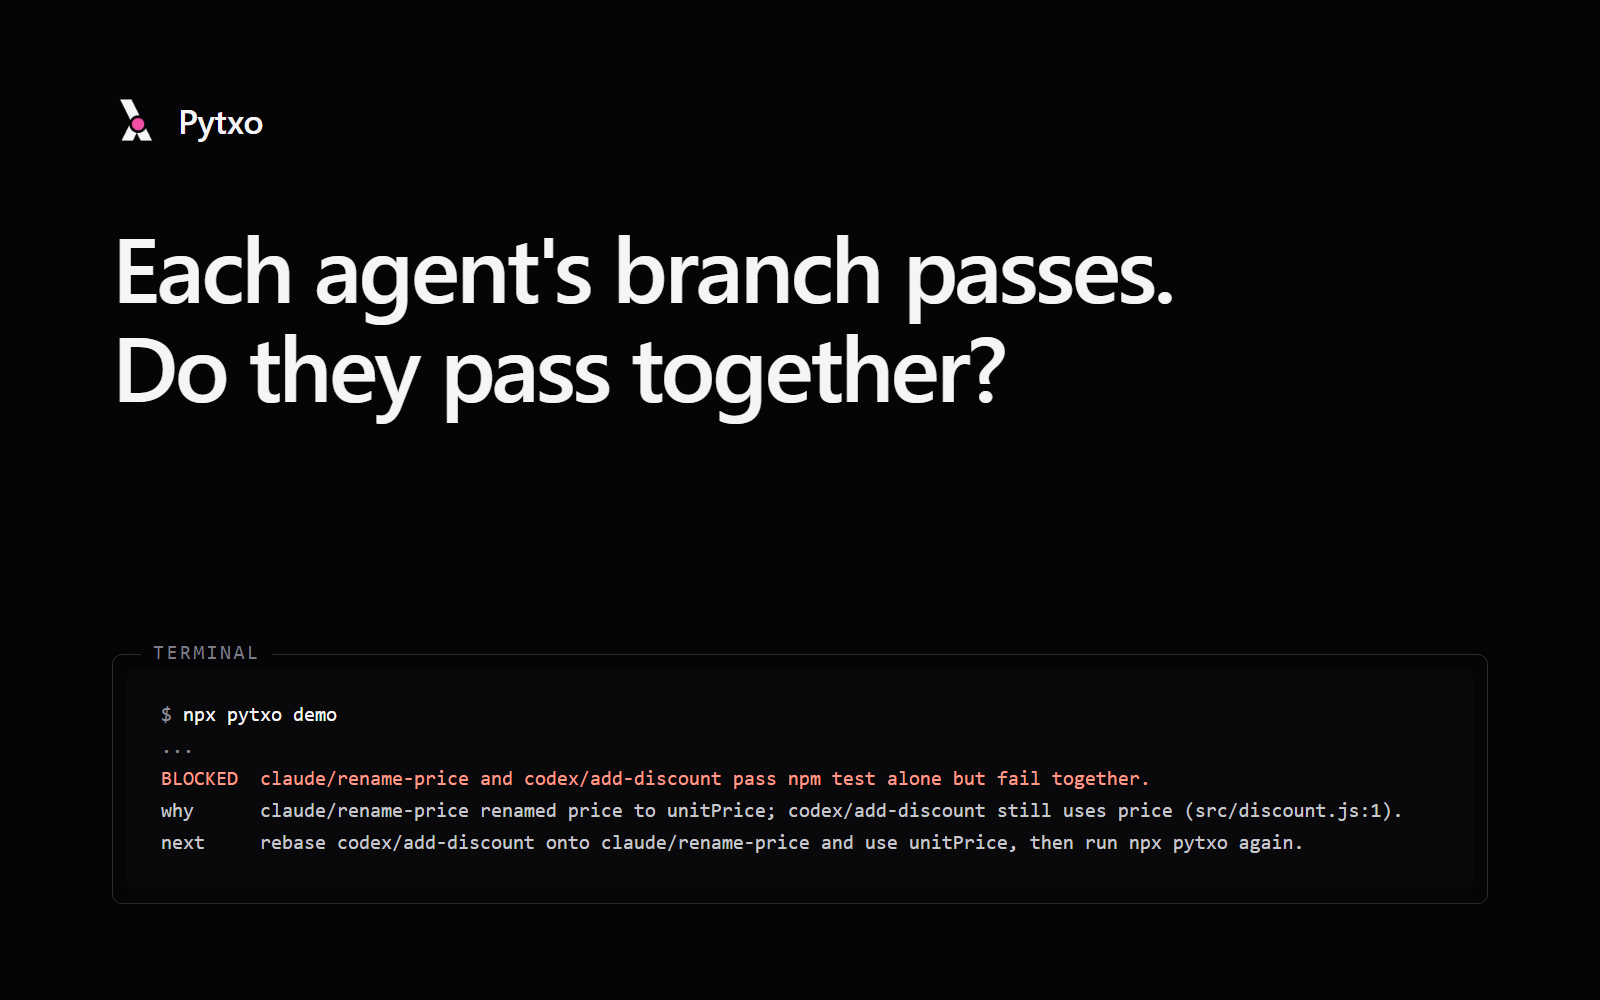
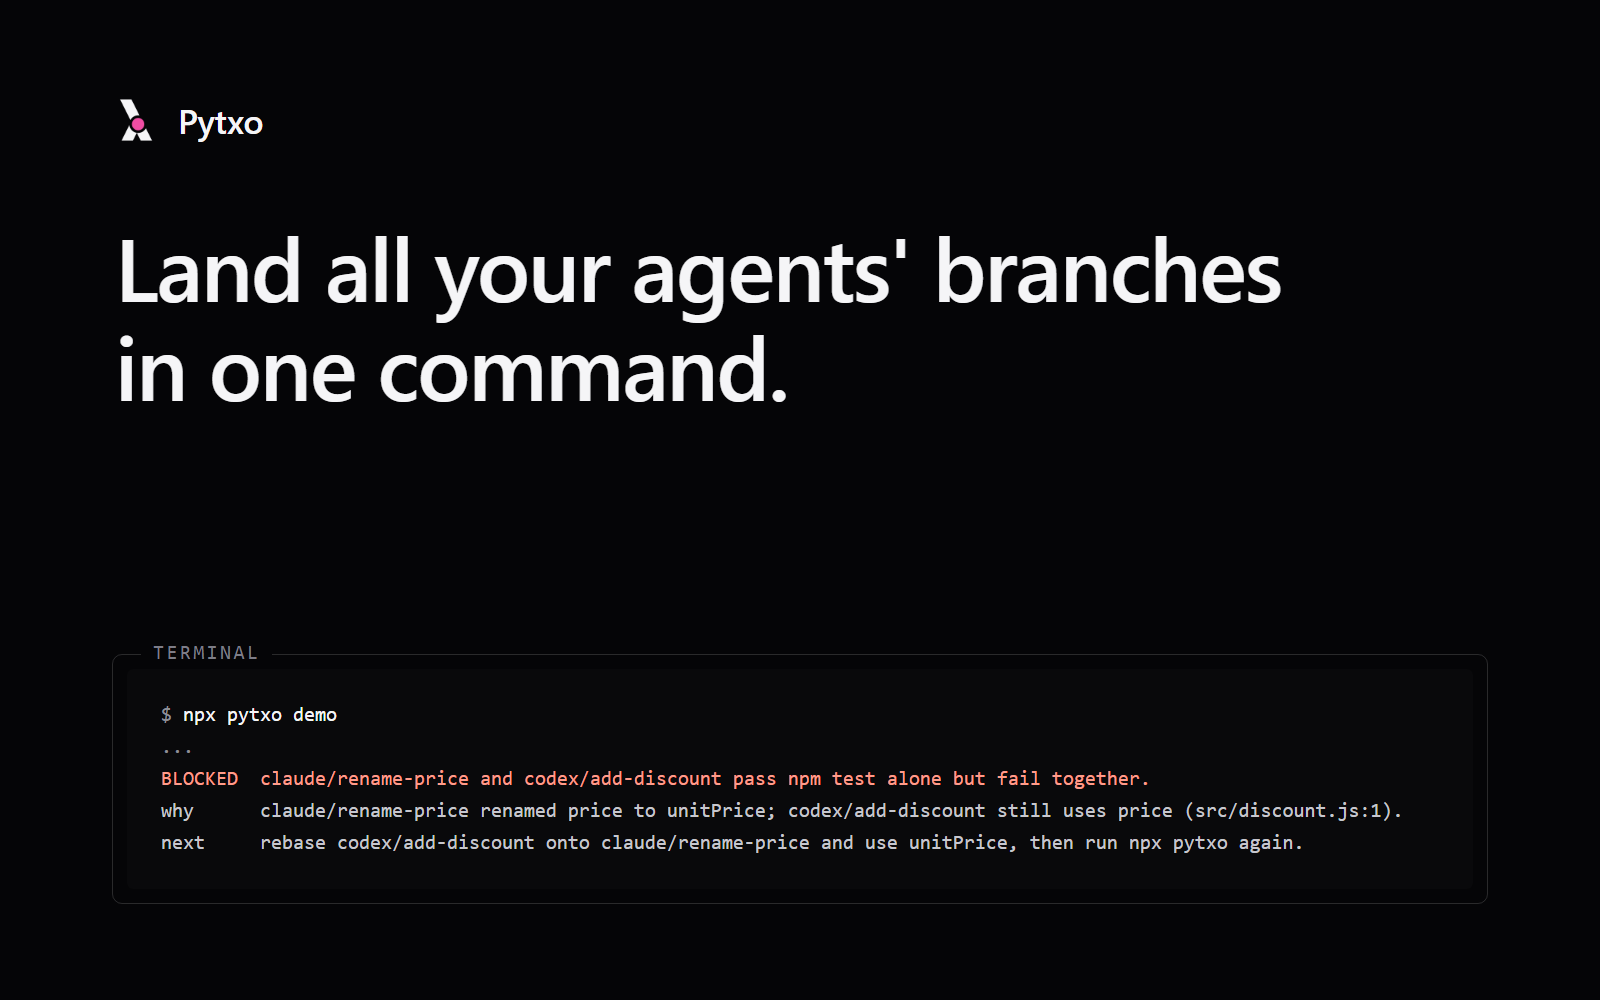
copy: lead with landing the agents' branches, not the rare break
The hero, README, npm and mirror READMEs, docs intro, page titles,
release notes, POSITIONING.md and the share card now say "Land all your
agents' branches in one command." and that nothing lands when two
branches break each other. On Pytxo's own work 0 of 21 sibling branch
pairs failed only together (2026-10-31), so the routine job leads and
the rare failure becomes the guarantee. The hero keeps four lines and
the copy button above the fold from 320x700 to 1920x1080. The terminal
row shows npx pytxo --apply; the Action's description says what it
does in CI. POSITIONING adds asking the agent to merge as what people
do today, no model calls as a reason, and all-or-nothing landing as a
limit. The CLI's help text and Cargo description are unchanged.

Changed region(s): [[0.0625, 0.217, 0.8125, 0.434]]

diff --git a/apps/web/e2e/marketing.spec.ts b/apps/web/e2e/marketing.spec.ts
@@ -26,8 +26,8 @@ for (const width of [1440, 390]) {
     await page.emulateMedia({ reducedMotion: "reduce" });
     await page.goto("/");
     const hero = page.getByTestId("marketing-hero");
-    await expect(hero.getByRole("heading", { level: 1 })).toHaveText("Each agent's branch passes. Do they pass together?");
-    await expect(hero.getByText(/runs your tests on the combined result, and blocks the merge if it breaks/)).toBeVisible();
+    await expect(hero.getByRole("heading", { level: 1 })).toHaveText("Land all your agents' branches in one command.");
+    await expect(hero.getByText(/runs your tests and lands them only if they pass/)).toBeVisible();
     await expect(hero.getByRole("button", { name: "Copy npx pytxo demo" })).toBeInViewport({ ratio: 1 });
     await expect(hero.getByRole("link", { name: "Source on GitHub" })).toHaveAttribute("href", "https://github.com/Pytxo-dev/pytxo");
     // The demo shows the recorded bytes of a real run, not a retyped or illustrated one.
@@ -56,7 +56,7 @@ for (const width of [1440, 390]) {
     }
     await expect(decide.getByRole("link", { name: /^Pull request comment/ })).toHaveAttribute("href", "/evidence/comment-blocked-2.0.0-2026-10-30.json");
     const where = page.getByTestId("where-section");
-    await expect(where.locator("code")).toHaveText(["npx pytxo", "npx pytxo hook", "uses: Pytxo-dev/pytxo/actions/land@v2"]);
+    await expect(where.locator("code")).toHaveText(["npx pytxo --apply", "npx pytxo hook", "uses: Pytxo-dev/pytxo/actions/land@v2"]);
     for (const [name, href] of [
       ["Claude Code plugin or the Codex hook", "/docs/getting-started/agent-hooks"],
       ["GitHub Action", "/docs/getting-started/land-in-ci"],

diff --git a/apps/web/src/lib/site.ts b/apps/web/src/lib/site.ts
@@ -52,9 +52,9 @@ export type NavLink = {
 };
 
 /** One product sentence, used by metadata, footer and structured data. */
-export const PRODUCT_LINE = "Each agent's branch passes. Do they pass together?";
+export const PRODUCT_LINE = "Land all your agents' branches in one command.";
 export const PRODUCT_SUMMARY =
-  "Pytxo merges your Claude Code, Codex and Copilot branches in a throwaway worktree, runs your tests on the combined result, and blocks the merge if it breaks. Free, open source, runs on your machine or in CI.";
+  "Pytxo merges your Claude Code, Codex and Copilot branches in a throwaway worktree, runs your tests and lands them only if they pass together. Free and open source.";
 
 /** Agents verified live on a released build vs. those still in beta. */
 export const AGENT_SUPPORT = {
@@ -67,7 +67,7 @@ export const SHARE_IMAGE = {
   url: "/social/check-1600x1000.png",
   width: 1600,
   height: 1000,
-  alt: "Each agent's branch passes. Do they pass together? npx pytxo demo prints BLOCKED: two branches pass npm test alone but fail together, because one renamed price to unitPrice and the other still uses price.",
+  alt: "Land all your agents' branches in one command. npx pytxo demo prints BLOCKED: two branches pass npm test alone but fail together, because one renamed price to unitPrice and the other still uses price.",
 };
 
 /** Where a newcomer starts, linked from the plans and the 404 page. */

diff --git a/apps/web/src/components/site/hero.tsx b/apps/web/src/components/site/hero.tsx
@@ -11,12 +11,12 @@ export function Hero() {
       <MarkField />
       <div className={s.wrap}>
         <h1 id="hero-title">
-          <span data-keep="text:0.22">Each agent&apos;s branch passes.</span>{" "}
-          <span data-keep="text:0.22">Do they pass together?</span>
+          <span data-keep="text:0.22">Land all your agents&apos;</span>{" "}
+          <span data-keep="text:0.22">branches in one command.</span>
         </h1>
         <p className={s.pitch} data-keep="text:0.1">
-          Pytxo merges your coding agents&apos; branches in a throwaway worktree, runs your tests on the combined result,
-          and blocks the merge if it breaks.
+          Pytxo merges them in a throwaway worktree, runs your tests and lands them only if they pass. When two break
+          each other, nothing lands.
         </p>
         <div className={s.act}>
           <CopyCommand keep="box:0.1" />

diff --git a/apps/web/src/app/(marketing)/page.tsx b/apps/web/src/app/(marketing)/page.tsx
@@ -11,7 +11,7 @@ import comment from "../../../public/evidence/comment-blocked-2.0.0-2026-10-30.j
 
 export const metadata = pageMetadata(
   "/",
-  "Pytxo: do your agents' branches pass together?",
+  "Pytxo: land your coding agents' branches in one command",
   PRODUCT_SUMMARY,
 );
 
@@ -101,7 +101,7 @@ export default function HomePage() {
         <div className={s.wrap}>
           <h2 id="where-title">Where it runs.</h2>
           <ul className={s.where}>
-            <li><p>In your terminal</p><code>npx pytxo</code></li>
+            <li><p>In your terminal</p><code>npx pytxo --apply</code></li>
             <li>
               <p>When an agent stops, through the <Link href="/docs/getting-started/agent-hooks">Claude Code plugin or the Codex hook</Link></p>
               <code>npx pytxo hook</code>

diff --git a/apps/web/src/app/layout.tsx b/apps/web/src/app/layout.tsx
@@ -9,7 +9,7 @@ import "./globals.css";
 export const metadata: Metadata = {
   metadataBase: new URL("https://pytxo.com"),
   title: {
-    default: "Pytxo: do your agents' branches pass together?",
+    default: "Pytxo: land your coding agents' branches in one command",
     template: "%s · Pytxo",
   },
   description: PRODUCT_SUMMARY,

diff --git a/POSITIONING.md b/POSITIONING.md
@@ -1,8 +1,9 @@
 # Positioning
 
-**Each agent's branch passes. Do they pass together?** Pytxo merges your
-coding agents' branches in a throwaway worktree, runs your tests on the
-combined result, and blocks the merge if it breaks.
+**Land all your agents' branches in one command.** Pytxo merges your coding
+agents' branches in a throwaway worktree, runs your tests on the combined
+result, and lands them only if they pass. If two branches break each other,
+nothing lands and you see why.
 
 This page is the source for the README, the homepage, the npm and Action
 descriptions, and the plugin listings. When they disagree, fix them to match
@@ -24,6 +25,9 @@ without tests (Pytxo catches only what the tests catch).
   still break main the moment both are merged.
 - **Merge by hand.** Merge one branch, rebase the next, run the tests again,
   and find the break after the first branch has already landed.
+- **Ask the agent to merge.** Claude Code or Codex can merge the branches and
+  run the tests, but that spends the same usage limits as the work, and it may
+  merge differently each time.
 - **Use a merge queue** (GitHub's merge queue, Mergify, Graphite). These do
   test combined changes, but at merge time: after review, with branch
   protection set up first, inside one hosting provider. A break found there
@@ -33,6 +37,14 @@ without tests (Pytxo catches only what the tests catch).
 
 ## Why Pytxo
 
+- **One command for the routine job.** Merging three to five agent branches
+  by hand means merge, rebase, run the tests, repeat. `npx pytxo --apply` does
+  it in one step and moves the target only when the tests pass on the combined
+  result, by compare-and-swap, so it refuses if the target moved meanwhile.
+  Every run does that work, not only the rare run where branches break each
+  other.
+- **No model, no quota.** The check never calls a model, so it spends none of
+  your agents' usage limits.
 - **Your real tests on the combined result.** Not a diff heuristic and not a
   model's opinion: `npm test`, `pytest`, `cargo test`, `go test ./...` or
   whatever the repository uses, run on the merge of all the branches.
@@ -51,11 +63,14 @@ without tests (Pytxo catches only what the tests catch).
   pair fails and the others pass, in CI only the pull requests of the
   branches behind the failure fail. After a combined run times out, the
   branches do not run alone.
-- **Nothing in the repository changes.** The merge happens in a throwaway
-  worktree.
+- **Nothing changes until it passes.** The merge happens in a throwaway
+  worktree. Without `--apply` nothing in the repository changes; with it, only
+  the target branch moves.
 
 ## Honest limits
 
+- Landing is all or nothing: when the combination fails, nothing lands, even
+  the branches that pass on their own.
 - It catches what your tests catch. A break your tests don't cover still lands.
 - Merge conflicts are reported and blocked, not resolved.
 - Nobody has measured how often agents' branches fail only when combined. The
@@ -94,11 +109,14 @@ Pro is not switched on yet: until it is, the Action runs free everywhere.
 
 ## Words
 
-Use: check, together, combined, agent branches, throwaway worktree, READY,
+Use: land, check, together, combined, agent branches, throwaway worktree, READY,
 BLOCKED, verdict.
 
 Keep off every page a newcomer sees: control plane, hypervisor, telemetry,
 mission, fleet, the Orbit / Galaxy / DeepSpace / Supernova tiers, Signal
 Core, Blast Shield, Race Shield, Ultra. They still name real parts of the
-frozen 1.x tooling and live in the advanced docs. Lead with the question, not
-a category name such as "landing layer".
+frozen 1.x tooling and live in the advanced docs. Lead with the job (landing
+the agents' branches), then the guarantee (only if they pass together). Not
+with a category name such as "landing layer", and not with the rare failure:
+on Pytxo's own work, 0 of 21 sibling branch pairs failed only together
+(measured 2026-10-31).

diff --git a/README.md b/README.md
@@ -4,11 +4,12 @@
 [![npm](https://img.shields.io/npm/v/pytxo)](https://www.npmjs.com/package/pytxo)
 [![License: MIT](https://img.shields.io/badge/License-MIT-teal.svg)](LICENSE)
 
-**Each agent's branch passes. Do they pass together?**
+**Land all your agents' branches in one command.**
 
 Pytxo merges your Claude Code, Codex and Copilot branches in a throwaway
-worktree, runs your tests on the combined result, and blocks the merge if it
-breaks. Free, open source, runs on your machine or in CI.
+worktree, runs your tests on the combined result, and lands them only if they
+pass. If two branches break each other, nothing lands and you see why. Free,
+open source, runs on your machine or in CI.
 
 ```bash
 npx pytxo demo
@@ -17,15 +18,16 @@ npx pytxo demo
 ## Try it
 
 ```bash
-npx pytxo demo   # a throwaway repo where two agent branches pass alone and fail together
+npx pytxo demo      # a throwaway repo where two agent branches pass alone and fail together
 cd your-repo
-npx pytxo        # checks your agent branches together
+npx pytxo           # checks your agent branches together
+npx pytxo --apply   # and lands them if they pass
 ```
 
 No flags, no config, no account. Pytxo finds the agent branches, finds your
 test command, merges the branches in a throwaway worktree, runs the tests
 there and prints the verdict in three lines: what happened, why, and what to
-do next. Nothing in your repository changes. Ctrl+C stops a check and removes
+do next. Nothing in your repository changes unless you add `--apply`. Ctrl+C stops a check and removes
 its throwaway worktree; a check that is killed outright leaves the worktree in
 `git worktree list` until the next check removes it.
 

diff --git a/packages/pytxo/README.md b/packages/pytxo/README.md
@@ -1,14 +1,16 @@
 # pytxo
 
-**Each agent's branch passes. Do they pass together?**
+**Land all your agents' branches in one command.**
 
 Pytxo merges your Claude Code, Codex and Copilot branches in a throwaway
-worktree, runs your tests on the combined result, and blocks the merge if it
-breaks. Free, open source, runs on your machine or in CI.
+worktree, runs your tests on the combined result, and lands them only if they
+pass. If two branches break each other, nothing lands and you see why. Free,
+open source, runs on your machine or in CI.
 
 ```bash
-npx pytxo demo   # watch it catch two branches that pass alone and fail together
-npx pytxo        # check the agent branches in your repository
+npx pytxo demo      # watch it catch two branches that pass alone and fail together
+npx pytxo           # check the agent branches in your repository
+npx pytxo --apply   # and land them if they pass
 ```
 
 `npx pytxo` finds the agent branches (`claude/*`, `codex/*`, `copilot/*`,
@@ -21,7 +23,7 @@ why      claude/rename-price renamed price to unitPrice; codex/add-discount stil
 next     rebase codex/add-discount onto claude/rename-price and use unitPrice, then run npx pytxo again.
 ```
 
-Nothing in your repository changes. Exit codes: `0` ready (or nothing to
+Nothing in your repository changes unless you add `--apply`. Exit codes: `0` ready (or nothing to
 check), `2` blocked, `3` stale (the target moved), `1` error, `130` stopped by
 Ctrl+C.
 

diff --git a/distribution/pytxo-releases/README.md b/distribution/pytxo-releases/README.md
@@ -1,15 +1,17 @@
 # Pytxo
 
-**Each agent's branch passes. Do they pass together?**
+**Land all your agents' branches in one command.**
 
 Pytxo merges your Claude Code, Codex and Copilot branches in a throwaway
-worktree, runs your tests on the combined result, and blocks the merge if it
-breaks. Free, open source, runs on your machine or in CI.
+worktree, runs your tests on the combined result, and lands them only if they
+pass. If two branches break each other, nothing lands and you see why. Free,
+open source, runs on your machine or in CI.
 
 ```bash
-npx pytxo demo   # a throwaway repo where two agent branches pass alone and fail together
+npx pytxo demo      # a throwaway repo where two agent branches pass alone and fail together
 cd your-repo
-npx pytxo        # checks your agent branches together
+npx pytxo           # checks your agent branches together
+npx pytxo --apply   # and lands them if they pass
 ```
 
 This repository holds the release binaries and install scripts. The source is

diff --git a/distribution/release-notes/v2.0.0.md b/distribution/release-notes/v2.0.0.md
@@ -2,7 +2,7 @@
 
 Pytxo is one check now: `npx pytxo` merges your agents' branches in a
 throwaway worktree, runs your tests on the combined result, and blocks the
-merge if it breaks. When the branches pass alone and fail together because
+merge if it breaks; with `--apply` it lands them when they pass. When the branches pass alone and fail together because
 one renamed or removed a name another still uses, and the failing output
 confirms it, Pytxo says which branch did that, which branch still uses the
 name and where, and which agent has to fix it. It calls no model and sends
